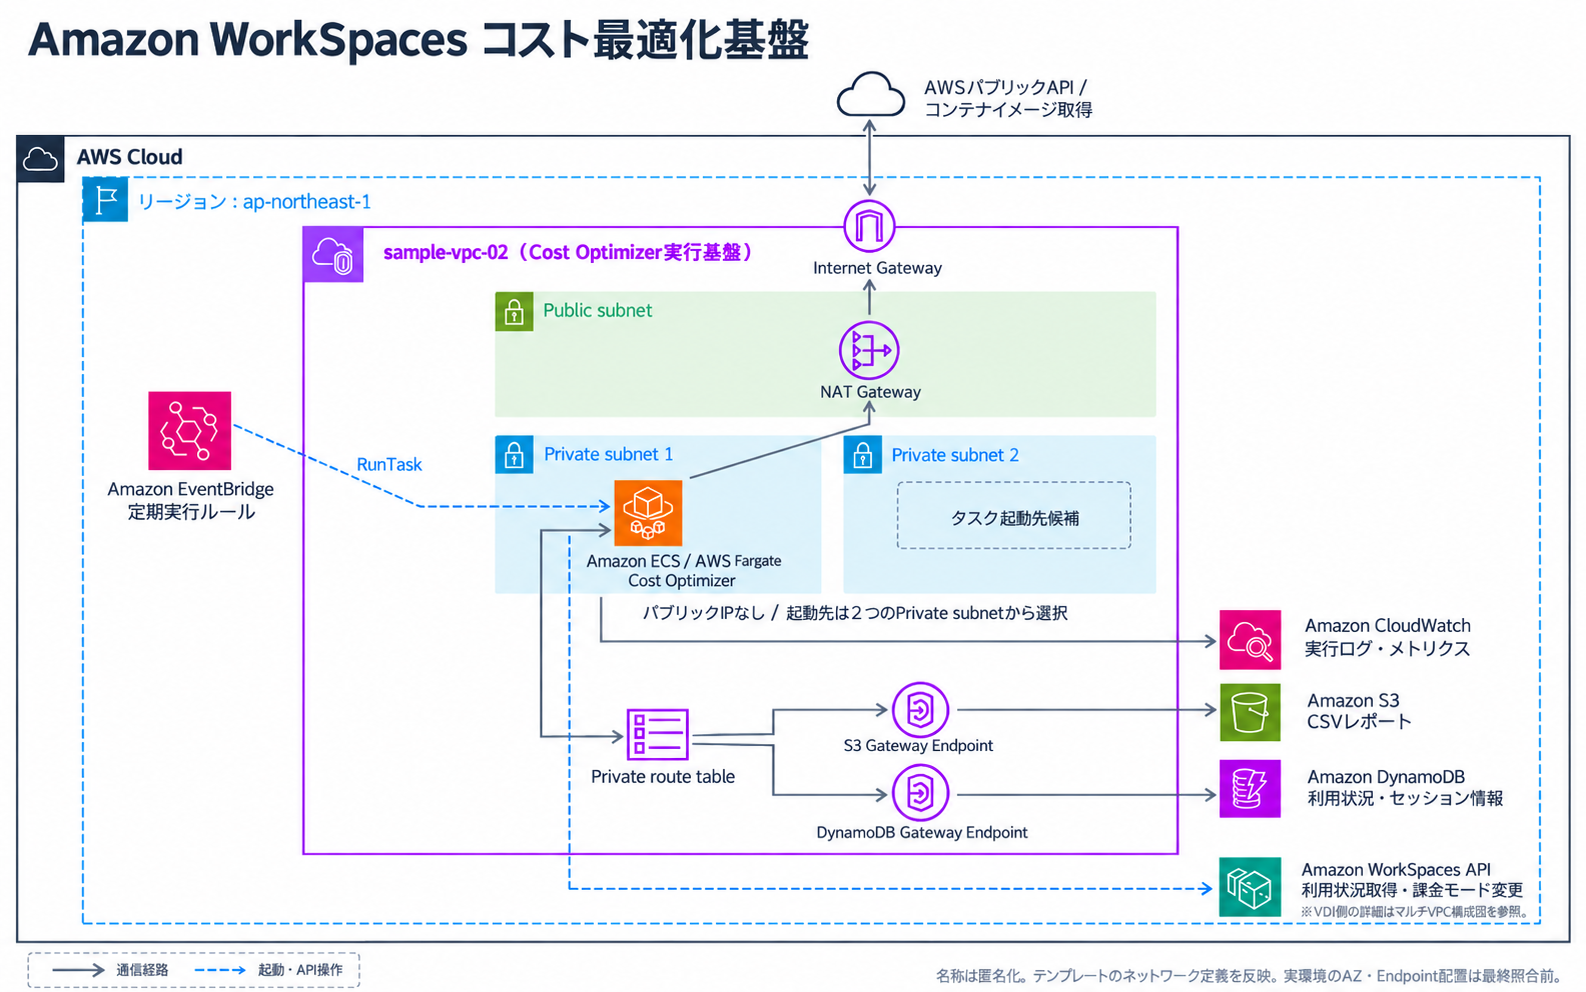
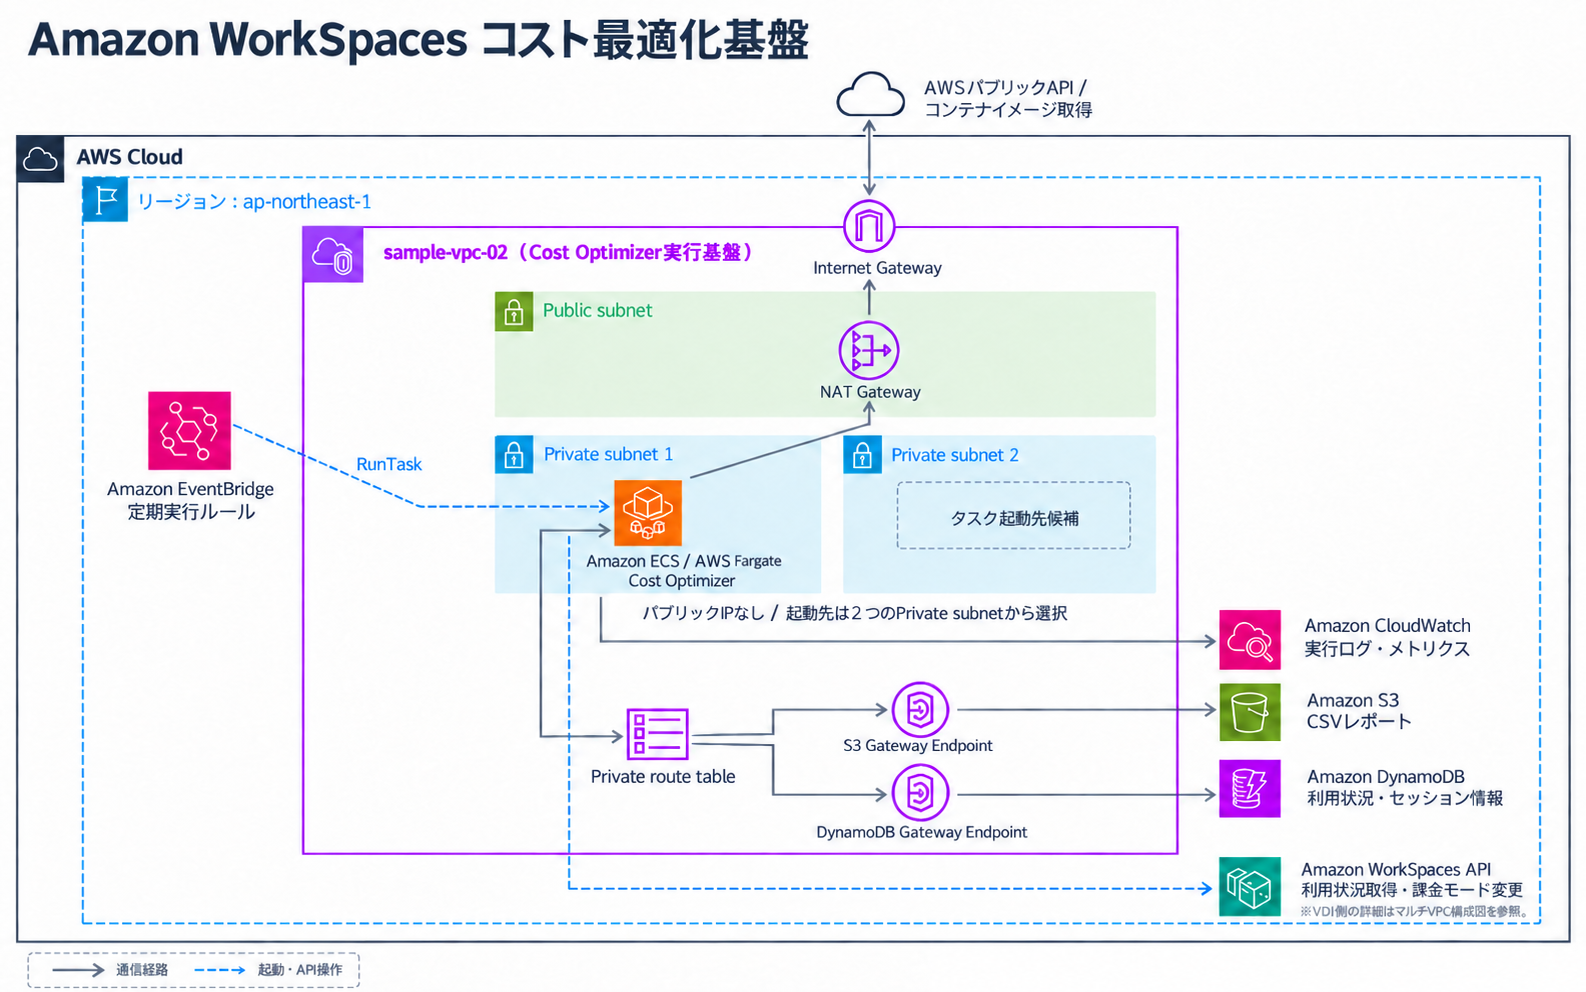
Align project counts and remove outdated diagram footer

diff --git a/projects.html b/projects.html
@@ -44,7 +44,7 @@
           <tr><th scope="row">ナレッジページの作成</th><td>約10件</td></tr>
         </tbody>
       </table>
-      <p class="case-note">問い合わせ対応・手順書作成および実作業・AWSサポート連携の件数は、2026年7月11日時点の実績です。</p>
+      <p class="case-note">設計・構築の案件数は2026年9月24日時点、問い合わせ対応・手順書作成および実作業・AWSサポート連携の件数は2026年7月11日時点の実績です。</p>
     </section>
 
     <section class="case-section" id="operations" aria-labelledby="operations-title">
@@ -146,7 +146,7 @@
         <p>そこで、利用時間と設定した閾値に応じて課金モードを自動で切り替える「Cost Optimizer for Amazon WorkSpaces」を検討しました。私が仕様と動作条件を確認し、検証環境で課金モードの判定・切り替えやレポート出力を確認したうえで、お客様環境への導入を支援しました。</p>
         <p class="case-note">出典：<a href="https://docs.aws.amazon.com/solutions/latest/cost-optimizer-for-workspaces/overview.html" target="_blank" rel="noopener noreferrer">Cost Optimizer for Amazon WorkSpaces（AWS公式）</a><br>出典：<a href="https://aws.amazon.com/workspaces-family/workspaces/faqs/" target="_blank" rel="noopener noreferrer">WorkSpacesの課金に関するFAQ（AWS公式）</a></p>
           <figure class="case-diagram case-cost-diagram">
-            <a href="assets/career-architectures/architecture-workspaces-cost-optimizer-approved.png" title="構成図を原寸で開く"><img src="assets/career-architectures/architecture-workspaces-cost-optimizer-approved.png" width="1586" height="992" alt="WorkSpacesコスト最適化基盤。AWS Cloud内のVPC、サブネット、NAT Gateway、Fargate、Gateway EndpointとVPC外のAWSサービスを示す構成図。" loading="lazy"></a>
+            <a href="assets/career-architectures/architecture-workspaces-cost-optimizer-approved.png?v=20260924-footer" title="構成図を原寸で開く"><img src="assets/career-architectures/architecture-workspaces-cost-optimizer-approved.png?v=20260924-footer" width="1586" height="992" alt="WorkSpacesコスト最適化基盤。AWS Cloud内のVPC、サブネット、NAT Gateway、Fargate、Gateway EndpointとVPC外のAWSサービスを示す構成図。" loading="lazy"></a>
           </figure>
         <p>導入支援に加え、自動停止までの時間を短縮し、利用状況に合わせたコンピューティングタイプの変更も支援しました。また、当時の料金条件に基づいて課金切替閾値の見直し案を作成しました。</p>
         <p>CloudWatchダッシュボードで動作と課金モードを確認し、料金推移をお客様へ報告しました。これらの取り組み後、月額利用料金は2025年12月から2026年2月にかけて6,840.33 USD（59.9％）減少しました。</p>

diff --git a/career.html b/career.html
@@ -122,7 +122,7 @@
                 <th>設計・構築・自動化</th>
                 <td>
                   <ul class="achievement-list">
-                    <li><strong>案件実績：</strong>チーム内の稼働状況に応じてアサインされ、AWS基盤の設計・構築・検証案件を16件担当。サーバー、データベース、ネットワーク、VDI、監視・セキュリティを組み合わせた検証・本番環境を構築</li>
+                    <li><strong>案件実績：</strong>チーム内の稼働状況に応じてアサインされ、2026年9月24日時点の集計で、AWS基盤の設計・構築・検証案件を17件担当。サーバー、データベース、ネットワーク、VDI、監視・セキュリティを組み合わせた検証・本番環境を構築</li>
                   </ul>
                   <div class="achievement-build-examples">
                     <p class="achievement-build-heading">代表的な構築例</p>
